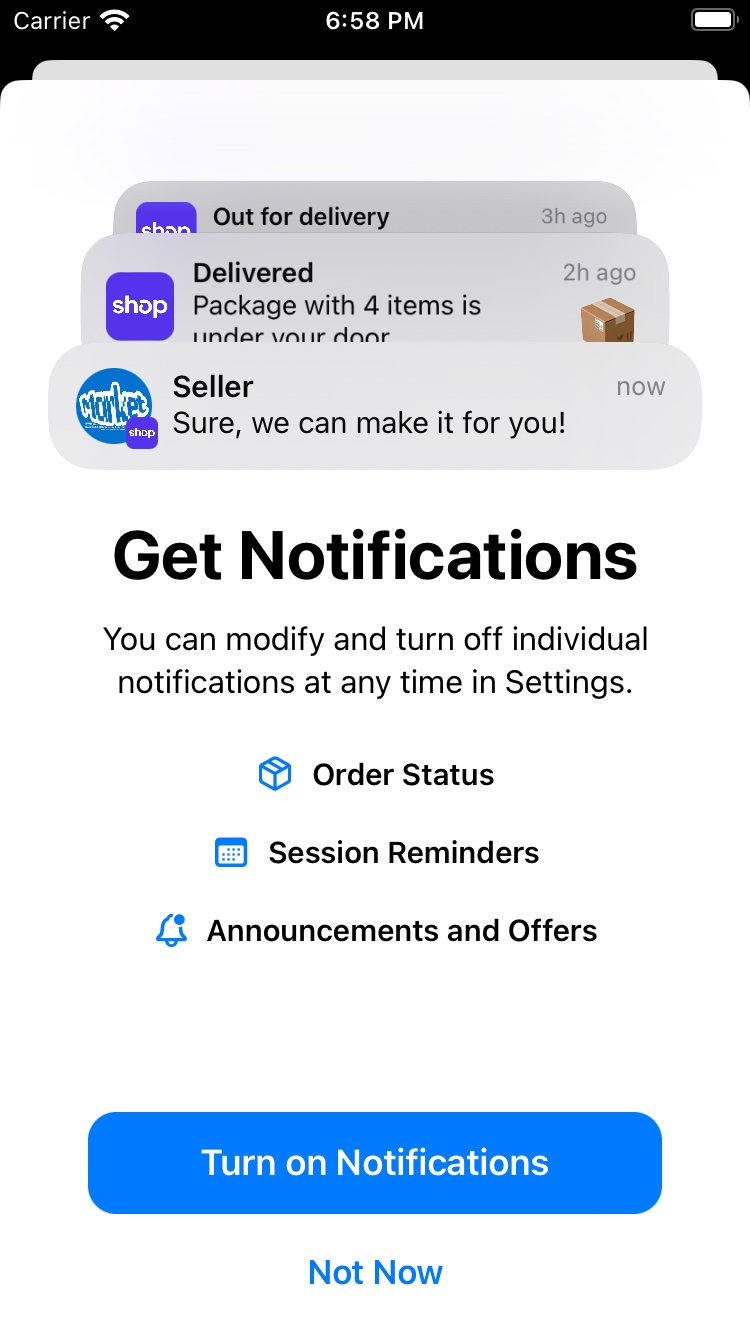
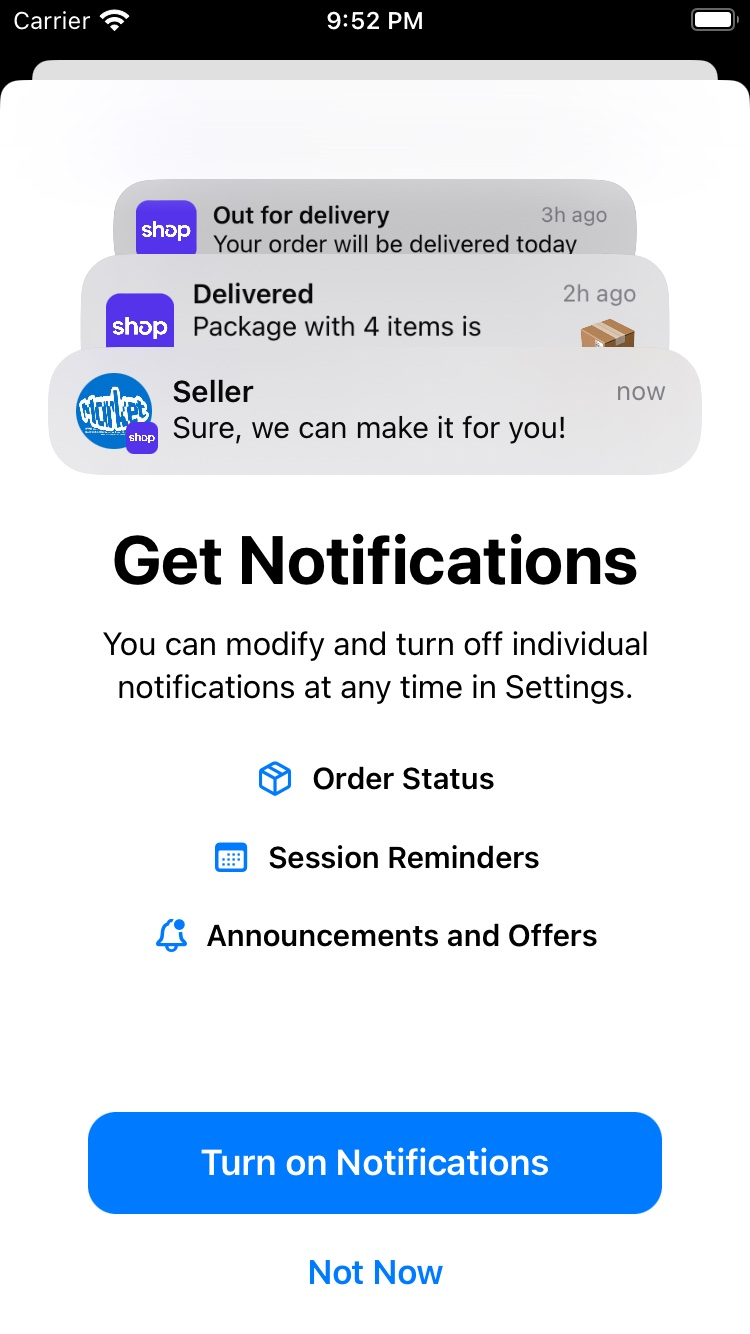
update preview

diff --git a/UIExamples/Modules/Notifications/Subview/NotificationPushView.swift b/UIExamples/Modules/Notifications/Subview/NotificationPushView.swift
@@ -99,26 +99,6 @@ struct NotificationPushView: View {
         return .quaternary
     }
     
-//    private func getPushBackground() -> Color {
-//        if !notStack {
-//            if index == 0 {
-//                return .brown
-//            }
-//
-//            if index == 1 {
-//                return  .pink
-//            }
-//
-//            if index == 2 {
-//                return .mint
-//            }
-//
-//            return .blue
-//        }
-//
-//        return .white
-//    }
-    
     private func getContentOpacity() -> Double {
         if !notStack && index > 2 {
             return 0.0

diff --git a/UIExamples/Modules/Notifications/View3/NotificationSetupView3.swift b/UIExamples/Modules/Notifications/View3/NotificationSetupView3.swift
@@ -174,7 +174,7 @@ struct NotificationSetupView3: View {
             return -scaledHeight - heightDifference/2
         }
         
-        return -abs(pushesRowHeight[0] - scaledHeight + heightDifference/2)
+        return -abs(pushesRowHeight[0] - pushesRowHeight[index] + heightDifference/2)
     }
     
     private func calculateScaleForPush(at index: Int) -> CGSize {
